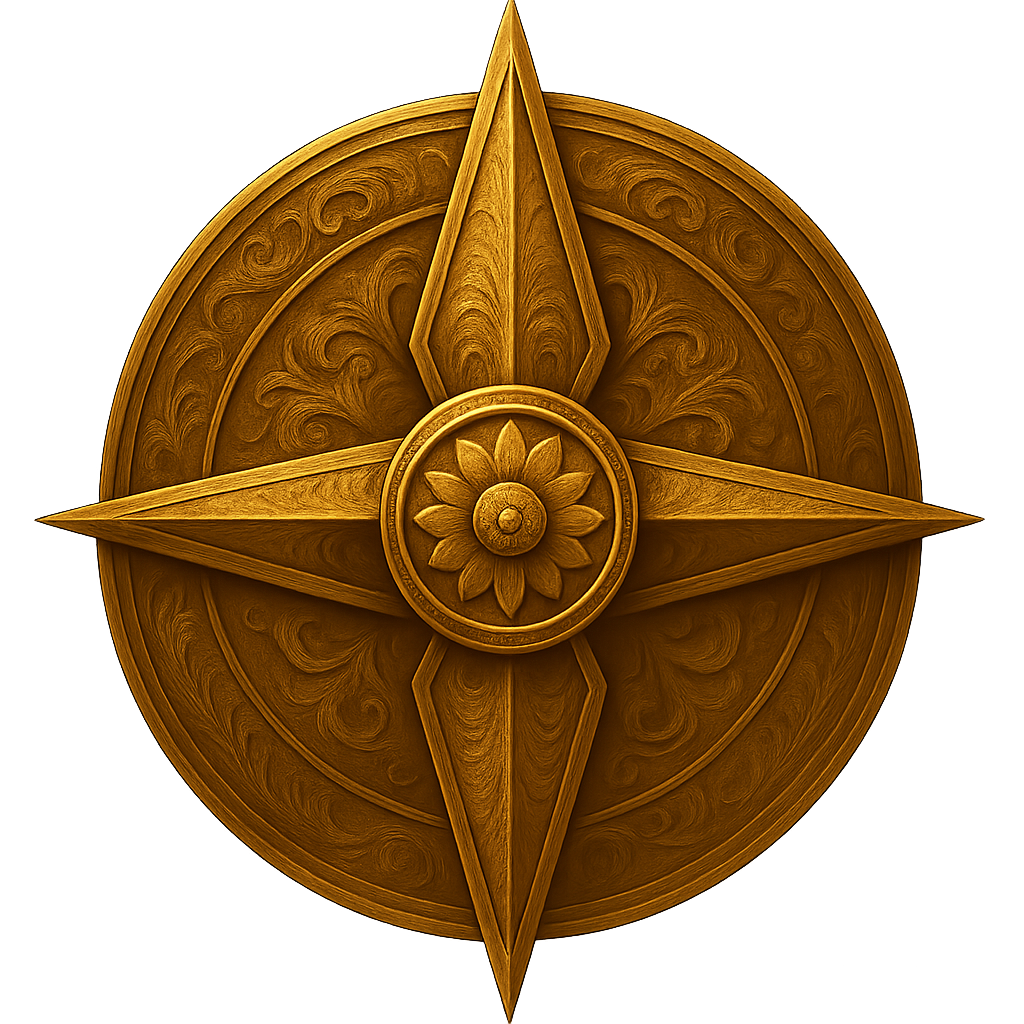
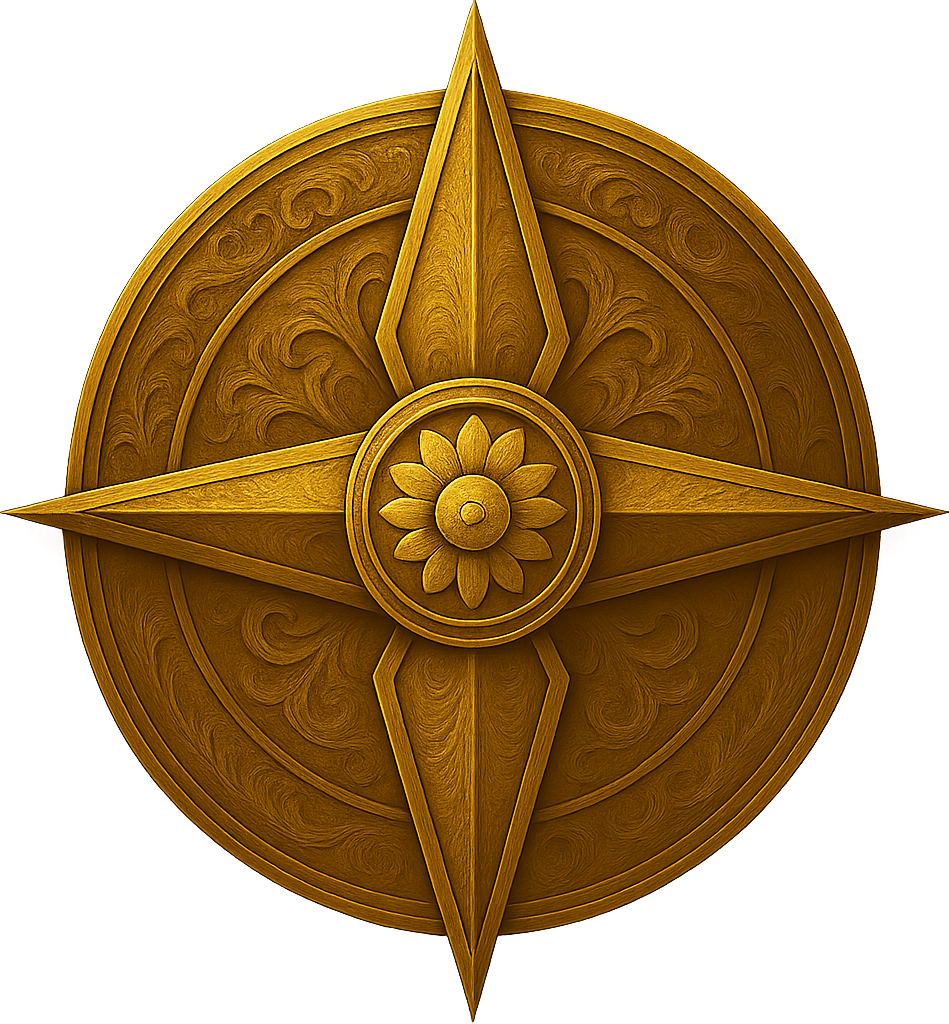
feat(THET-185): Add Rosette component into Acolyte Map.

diff --git a/src/components/Rosette.tsx b/src/components/Rosette.tsx
@@ -1,0 +1,103 @@
+import React, { useContext, useEffect } from 'react';
+import ArtifactImage from './ArtifactImage';
+import styled from 'styled-components/native';
+import { Text, useWindowDimensions } from 'react-native';
+import { Images, Screens, swampArtifactIcons } from '../helpers/constants/constants';
+import { useActivatedArtifactStore } from '../helpers/stores/useActivatedArtifactStore';
+import DropShadow from 'react-native-drop-shadow';
+import IconButton from './screens/IconButton';
+import { AcolyteInitialScreenContext } from '../helpers/contexts/contexts';
+
+
+export default function Rosette () { 
+
+  // --- CONSTANTS, CONTEXTS && STORES --- //
+  const { width, height } = useWindowDimensions();
+  const activatedArtifacts = useActivatedArtifactStore( state => state.activatedArtifacts );
+    const initialRouterScreen = useContext(AcolyteInitialScreenContext);
+  
+  const artifactsInRosettePositionsPercents = [{x: 20, y: 20}, {x: 80, y: 20}, {x: 20, y: 80}, {x: 80, y: 80}];
+  
+
+  if (activatedArtifacts.length === 0) return;
+  if (!initialRouterScreen) return <Text>ERROR! Initial Router Context not got</Text>;
+  
+  const setInitialScreen = initialRouterScreen[1];
+
+  // --- FUNCTIONS --- //
+    const selectInitialObituaryScreen = () => setInitialScreen(Screens.OBITUARY);
+  
+
+  // --- STYLED COMPONENTS --- //
+  const StyledImage = styled.Image`
+    width: ${width * 0.7};
+    height: ${width * 0.7};
+  `;
+
+  const StyledAbsoluteRosettePosition = styled.View`
+    position: absolute;
+    top: ${height * 0.78};
+    left: ${width * 0.5};
+  `;
+
+  const RelativePositionedObituatyButton = styled.View`
+    width: ${width * 0.2};
+    height: ${width * 0.2}; 
+    position: absolute;
+    top: 50%;
+    left: 50%;
+  `;
+
+  const StyledRelativeRosettePositionSoBeInTheMiddle = styled.View`
+    position: relative;
+    top: -50%;
+    left: -50%;
+  `;
+
+    const dropShadowStyles = {
+    shadowColor: 'rgba(255, 251, 35, 1)',
+    shadowOffset: {
+      width: 0,
+      height: 0,
+    },
+    shadowOpacity: 2,
+    shadowRadius: 6,
+  }
+
+
+  // --- EFFECTS --- //
+  useEffect(() => {
+  }, []);
+
+  return (
+    <>
+      <StyledAbsoluteRosettePosition>
+        <StyledRelativeRosettePositionSoBeInTheMiddle>
+          <DropShadow style={dropShadowStyles}>
+            <StyledImage source={Images.ROSETTE} resizeMode='center'/>
+            {
+              activatedArtifacts.map((artifact, i) => {
+                return <ArtifactImage key={i} image={swampArtifactIcons[artifact.icon]} pos={artifactsInRosettePositionsPercents[i]} />
+              })
+            }
+          </DropShadow>
+          <RelativePositionedObituatyButton>
+            <StyledRelativeRosettePositionSoBeInTheMiddle>
+              <IconButton
+                width={width * 0.2}
+                height={width * 0.2}
+                xPos={0}
+                yPos={0}
+                hasBorder={true}
+                backgroundImage={Images.OBITUARY_ICON}
+                buttonOnPress={selectInitialObituaryScreen}
+              />
+            </StyledRelativeRosettePositionSoBeInTheMiddle>
+          </RelativePositionedObituatyButton>
+          
+        </StyledRelativeRosettePositionSoBeInTheMiddle>
+      </StyledAbsoluteRosettePosition>
+    </>
+  );
+
+};

diff --git a/src/components/screens/roles/acolyte/AcolyteMap.tsx b/src/components/screens/roles/acolyte/AcolyteMap.tsx
@@ -9,8 +9,10 @@ import { socket } from "../../../../helpers/socket/socket";
 import { useArtifactsStore } from "../../../../helpers/stores/useArtifactStore";
 import { useUserStore } from "../../../../helpers/stores/useUserStore";
 import { useCollectionStore } from "../../../../helpers/stores/useCollectionStore";
+import Rosette from "../../../Rosette";
 
 export default function AcolyteMap() {
+
   // --- CONTEXTS --- //
   const screenDimensions = useScreenDimensions(state => state.screenDimensions);
   const initialRouterScreen = useContext(AcolyteInitialScreenContext);
@@ -24,7 +26,7 @@ export default function AcolyteMap() {
   if (!collectionContext) return
   if (!user) return
 
-  const [, setInitialScreen] = initialRouterScreen;
+  const setInitialScreen = initialRouterScreen[1];
   const areAllArtifactsCollected = useCollectionStore(state => state.areAllArtifactsCollected)
 
   
@@ -33,7 +35,6 @@ export default function AcolyteMap() {
   const selectInitialHomeScreen = () => setInitialScreen(Screens.SCHOOL_MAP);
   const selectInitialTowerScreen = () => setInitialScreen(Screens.ACOLYTE_TOWER);
   const selectInitialSwampScreen = () => setInitialScreen(Screens.SWAMP);
-  const selectInitialObituaryScreen = () => setInitialScreen(Screens.OBITURARY);
 
   // --- REFS --- //
   // Refs used on cloud animation
@@ -146,16 +147,6 @@ export default function AcolyteMap() {
         buttonOnPress={selectInitialSwampScreen}
       />
 
-      <IconButton
-        width={screenDimensions.width * 0.1}
-        height={screenDimensions.width * 0.1}
-        xPos={screenDimensions.width * 0.2}
-        yPos={screenDimensions.height * 0.62}
-        hasBorder={true}
-        backgroundImage={Images.OBITURARY_ICON}
-        buttonOnPress={selectInitialObituaryScreen}
-      />
-
       <Animated.View
         style={[
           styles.cloudOverlay,
@@ -174,6 +165,9 @@ export default function AcolyteMap() {
 
         <View style={styles.darkFilter} />
       </Animated.View>
+      
+      <Rosette />
+      
     </StyledAcolyteMapContainer>
   );
 }

diff --git a/src/components/ArtifactImage.tsx b/src/components/ArtifactImage.tsx
@@ -1,0 +1,67 @@
+import React, { useEffect } from "react";
+import { useWindowDimensions, View } from "react-native";
+import DropShadow from "react-native-drop-shadow";
+import styled from "styled-components/native";
+
+interface ArtifactImageProps{
+  image: any,
+  pos: {
+    x: number,
+    y: number,
+  },
+};
+
+export default function ArtifactImage({image, pos}: ArtifactImageProps) {
+  const { width, height } = useWindowDimensions();
+
+  const StyledImage = styled.Image`
+    width: ${width * 0.15};
+    height: ${width * 0.15};
+  `;
+
+  const StyledAbsoluteRosettePosition = styled.View`
+    position: absolute;
+    top: ${height * 0.8};
+    left: ${width * 0.5};
+  `;
+
+  const StyledRelativeRosettePositionSoBeInTheMiddle = styled.View`
+    position: relative;
+    top: -50%;
+    left: -50%;
+  `;
+
+  const StyledArtifactContainer = styled.View`
+    border: 1px solid rgba(255, 255, 255, 1);
+    background-color: rgba(0, 0, 0, 0.7);
+    border-radius: 100%;
+    width: ${width * 0.24};
+    height: ${width * 0.24};
+    justify-content: center;
+    align-items: center;
+  `;
+
+  const dropShadowStyles = {
+    shadowColor: 'rgba(255, 251, 35, 1)',
+    shadowOffset: {
+      width: 0,
+      height: 0,
+    },
+    shadowOpacity: 2,
+    shadowRadius: 6,
+  }
+
+  return (
+    <>
+      <View style={{ position: 'absolute', top: `${pos.y}%`, left: `${pos.x}%` }}>
+        <StyledRelativeRosettePositionSoBeInTheMiddle>
+            <DropShadow style={dropShadowStyles}>
+          <StyledArtifactContainer>
+            <StyledImage source={image} resizeMode="cover"/>
+          </StyledArtifactContainer>
+          </DropShadow>
+        </StyledRelativeRosettePositionSoBeInTheMiddle>
+      </View>
+    </>
+  );
+}

diff --git a/src/helpers/constants/constants.ts b/src/helpers/constants/constants.ts
@@ -25,7 +25,7 @@ enum Images {
   LOGGING_SCREEN          = require('../../assets/images/LoginScreen.png'),
   SPLASH_SCREEN           = require('../../assets/images/SplashScreen.png'),
   HALL_OF_SAGES           = require('../../assets/images/HallOfSages.png'),
-  OBITURARY               = require('../../assets/images/Obituary.png'),
+  OBITUARY                = require('../../assets/images/Obituary.png'),
 
   // --- ACOLYTE IMAGES --- //
   ACOLYTE_HOME            = require('../../assets/images/AcolyteHome.png'),
@@ -64,7 +64,7 @@ enum Images {
   HALL_ICON               = require('../../assets/images/logos/hall_icon.png'),
   SCROLL                  = require('../../assets/images/logos/scroll.png'),
   SWAMP_ICON              = require('../../assets/images/logos/swamp_icon.png'),
-  OBITURARY_ICON          = require('../../assets/images/logos/obituary_icon.png'),
+  OBITUARY_ICON          = require('../../assets/images/logos/obituary_icon.png'),
 
   // --- GENERAL IMAGES --- //
   LOGO                    = require('../../assets/images/logo.png'),
@@ -74,6 +74,7 @@ enum Images {
   BUTTON                  = require('../../assets/images/Button_1.png'),
   MODAL                   = require('../../assets/images/Modal.png'),
   AVATAR_CONTAINER        = require('../../assets/images/AvatarContainer.png'),
+  ROSETTE                 = require('../../assets/images/Roseta.png'),
 
   // --- ARTIFACT ICONS --- //
   DRAGON_HEART_ICON       = require('../../assets/artifactImages/Dragon_heart_icon.png'),
@@ -95,7 +96,7 @@ enum Screens {
   ACOLYTE_TOWER     = 'AcolyteTower',
   ACOLYTE_HALL      = 'AcolyteHall',
   SCHOOL_MAP        = 'SchoolMap',
-  OBITURARY         = 'Obituary',
+  OBITUARY         = 'Obituary',
 
 
   // --- ISTVAN --- //

diff --git a/src/components/screens/roles/acolyte/Acolyte.tsx b/src/components/screens/roles/acolyte/Acolyte.tsx
@@ -1,8 +1,10 @@
 import Swamp from "../../Swamp";
 import AcolyteMap from "./AcolyteMap";
 import AcolyteLab from "./AcolyteLab";
+import Obituary from "./Obituary";
 import AcolyteHome from "./AcolyteHome";
 import AcolyteTower from "./AcolyteTower";
+import HallOfSages from "../../HallOfSages";
 import AcolyteSettings from "./AcolyteSettings";
 import AcolyteSchoolMap from "./AcolyteSchoolMap";
 import React, { useContext, useEffect } from "react";
@@ -10,8 +12,7 @@ import { socket } from "../../../../helpers/socket/socket";
 import { useUserStore } from "../../../../helpers/stores/useUserStore";
 import { AcolyteInitialScreenContext } from "../../../../helpers/contexts/contexts";
 import { Screens, SocketClientToServerEvents } from "../../../../helpers/constants/constants";
-import HallOfSages from "../../HallOfSages";
-import { Obituary } from "./Obituary";
+import Rosette from "../../../Rosette";
 
 export default function Acolyte() {
 
@@ -49,7 +50,7 @@ export default function Acolyte() {
       {initialScreen === Screens.ACOLYTE_TOWER    && <AcolyteTower />}
       {initialScreen === Screens.HALL_OF_SAGES    && <HallOfSages />}
       {initialScreen === Screens.SWAMP            && <Swamp />}
-      {initialScreen === Screens.OBITURARY        && <Obituary />}
+      {initialScreen === Screens.OBITUARY         && <Obituary />}
     </>
   );
 

diff --git a/src/components/screens/HallContainer.tsx b/src/components/screens/HallContainer.tsx
@@ -21,13 +21,13 @@ type AcolyteScreenContainer = {
 export default function HallContainer({ backgroundImage, children }: PropsWithChildren<AcolyteScreenContainer>) {
 
   // --- CONTEXTS --- //
-  const {width, height}                     = useWindowDimensions(); 
-  const user                                = useUserStore(state => state.user);
-  const { activatedArtifacts, setActivatedArtifacts } = useActivatedArtifactStore(state => state);
+  const {width, height}                                         = useWindowDimensions(); 
+  const user                                                    = useUserStore(state => state.user);
+  const setActivatedArtifacts                                   = useActivatedArtifactStore(state => state.setActivatedArtifacts);
   const {areAllArtifactsCollected, setAreAllArtifactsCollected} = useCollectionStore(state => state)
 
   const initialRouterScreen = useContext(AcolyteInitialScreenContext);
-  const collectionContext = useContext(CollectionContext)
+  const collectionContext   = useContext(CollectionContext);
 
   if (!user) return;
   if (!initialRouterScreen) return (<Text>ERROR! Initial Router Context not got</Text>);

diff --git a/src/components/screens/roles/acolyte/Obituary.tsx b/src/components/screens/roles/acolyte/Obituary.tsx
@@ -4,9 +4,9 @@ import ScreenContainer from "../../ScreenContainer";
 import { Images } from "../../../../helpers/constants/constants";
 import IconButton from "../../IconButton";
 import { AcolyteInitialScreenContext } from "../../../../helpers/contexts/contexts";
+import Rosette from "../../../Rosette";
 
-
-export function Obituary() {
+export default function Obituary() {
 
   // --- CONSTANTS, CONTEXTS && STORES --- //
   const { width, height } = useWindowDimensions();
@@ -16,9 +16,11 @@ export function Obituary() {
 
   const setInitialScreen = initialRouterScreen[1];
 
+  // --- EFFECTS--- //
+
   return (
     <>
-      <ScreenContainer backgroundImg={Images.OBITURARY}>
+      <ScreenContainer backgroundImg={Images.OBITUARY}>
         {/* TODO: Modularizar este componente para crear un Obituary screen container que almacene este iconButton */}
           <IconButton
             width={width * 0.3}
@@ -30,8 +32,6 @@ export function Obituary() {
             yPos={20}
             hasBorder={false}
             backgrounOpacity={0} />
-
-
       </ScreenContainer>
     </>
   );
